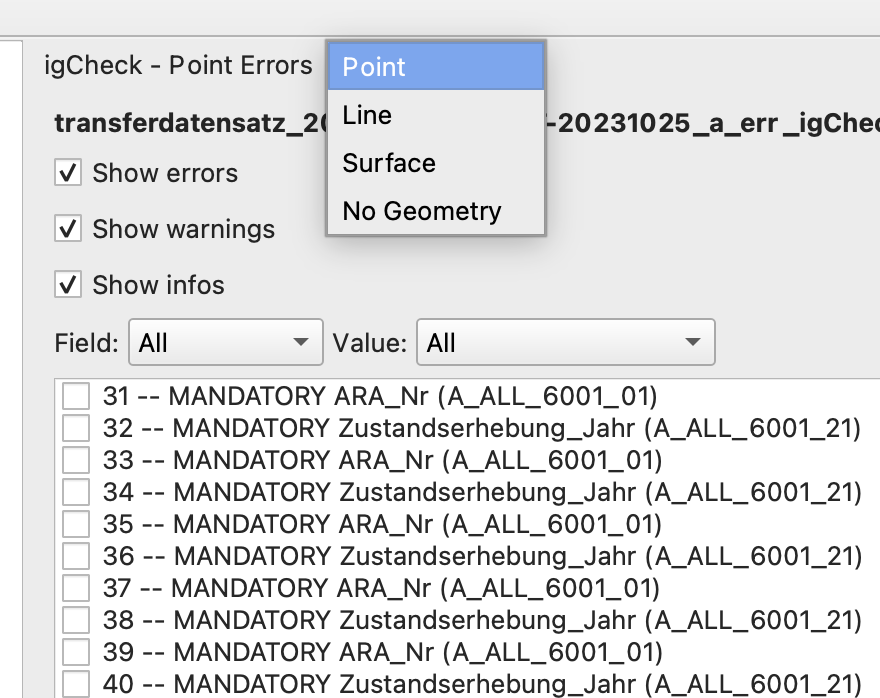
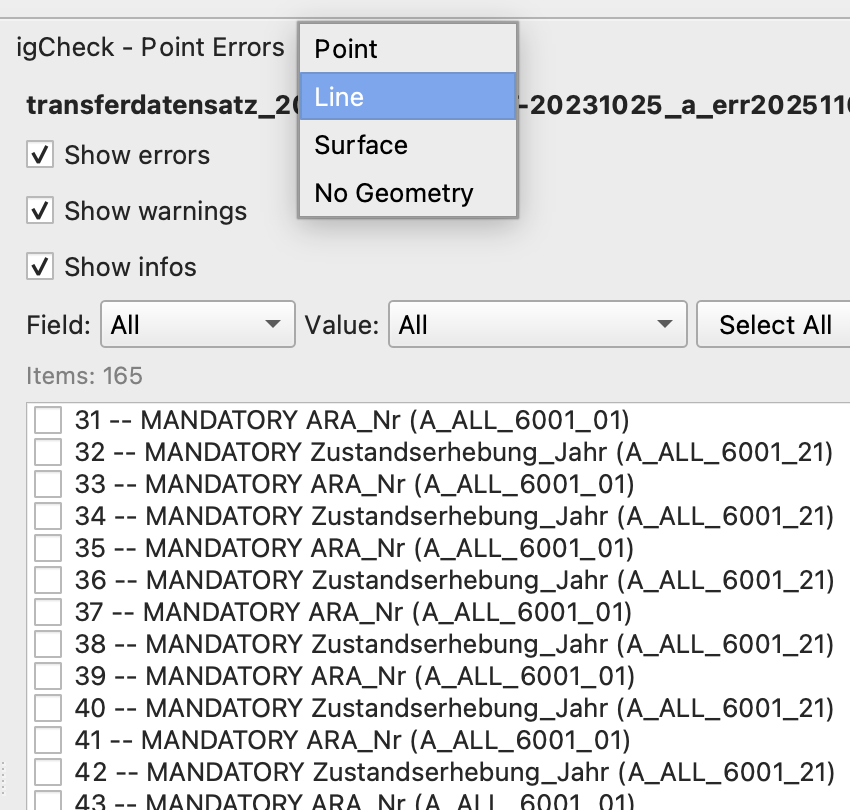
Update README and translations

diff --git a/xtflog_checker/i18n/XTFLog_Checker_fr.ts b/xtflog_checker/i18n/XTFLog_Checker_fr.ts
@@ -4,12 +4,12 @@
 <context>
     <name>generals</name>
     <message>
-        <location filename="../XTFLog_Checker_igcheck_dock_panel.py" line="97"/>
+        <location filename="../XTFLog_Checker_igcheck_dock_panel.py" line="121"/>
         <source>Show errors</source>
         <translation>Afficher erreures</translation>
     </message>
     <message>
-        <location filename="../XTFLog_Checker_igcheck_dock_panel.py" line="98"/>
+        <location filename="../XTFLog_Checker_igcheck_dock_panel.py" line="122"/>
         <source>Show warnings</source>
         <translation>Afficher avertissements</translation>
     </message>
@@ -59,7 +59,7 @@
         <translation>Aucun fichier XTF-Log valide au chemin d&apos;accès spécifié</translation>
     </message>
     <message>
-        <location filename="../XTFLog_Checker_dock_panel.py" line="42"/>
+        <location filename="../XTFLog_Checker_dock_panel.py" line="57"/>
         <source>Error log</source>
         <translation>XTFLog-Checker log des erreurs</translation>
     </message>
@@ -109,7 +109,7 @@
         <translation>Le fichier XTF sélectionné ne contient aucune erreur igCheck, veuillez en sélectionner un autre</translation>
     </message>
     <message>
-        <location filename="../XTFLog_Checker_igcheck_dock_panel.py" line="43"/>
+        <location filename="../XTFLog_Checker_igcheck_dock_panel.py" line="52"/>
         <source>Show infos</source>
         <translation>Afficher les infos</translation>
     </message>
@@ -159,14 +159,29 @@
         <translation>Aucune géométrie ou erreur valide</translation>
     </message>
     <message>
-        <location filename="../XTFLog_Checker_igcheck_dock_panel.py" line="61"/>
+        <location filename="../XTFLog_Checker_igcheck_dock_panel.py" line="76"/>
         <source>Field:</source>
         <translation>Champ :</translation>
     </message>
     <message>
-        <location filename="../XTFLog_Checker_igcheck_dock_panel.py" line="68"/>
+        <location filename="../XTFLog_Checker_igcheck_dock_panel.py" line="83"/>
         <source>Value:</source>
         <translation>Valeur :</translation>
+    </message>
+    <message>
+        <location filename="../XTFLog_Checker_igcheck_dock_panel.py" line="90"/>
+        <source>Select All</source>
+        <translation>Seleziona tutto</translation>
+    </message>
+    <message>
+        <location filename="../XTFLog_Checker_igcheck_dock_panel.py" line="91"/>
+        <source>Clear All</source>
+        <translation>Deseleziona tutto</translation>
+    </message>
+    <message>
+        <location filename="../XTFLog_Checker_igcheck_dock_panel.py" line="300"/>
+        <source>Items: {count}</source>
+        <translation>Elementi:{count}</translation>
     </message>
 </context>
 </TS>

diff --git a/xtflog_checker/i18n/XTFLog_Checker_de.ts b/xtflog_checker/i18n/XTFLog_Checker_de.ts
@@ -4,12 +4,12 @@
 <context>
     <name>generals</name>
     <message>
-        <location filename="../XTFLog_Checker_igcheck_dock_panel.py" line="97"/>
+        <location filename="../XTFLog_Checker_igcheck_dock_panel.py" line="121"/>
         <source>Show errors</source>
         <translation>Fehler anzeigen</translation>
     </message>
     <message>
-        <location filename="../XTFLog_Checker_igcheck_dock_panel.py" line="98"/>
+        <location filename="../XTFLog_Checker_igcheck_dock_panel.py" line="122"/>
         <source>Show warnings</source>
         <translation>Warnungen anzeigen</translation>
     </message>
@@ -59,7 +59,7 @@
         <translation>Keine gültige XTF-Log-Datei unter angegebenem Pfad</translation>
     </message>
     <message>
-        <location filename="../XTFLog_Checker_dock_panel.py" line="42"/>
+        <location filename="../XTFLog_Checker_dock_panel.py" line="57"/>
         <source>Error log</source>
         <translation>XTFLog-Checker Fehlerprotokoll</translation>
     </message>
@@ -109,7 +109,7 @@
         <translation>Die ausgewählte XTF-Datei enthält keine igCheck-Fehler. Bitte wählen Sie eine andere Datei aus</translation>
     </message>
     <message>
-        <location filename="../XTFLog_Checker_igcheck_dock_panel.py" line="43"/>
+        <location filename="../XTFLog_Checker_igcheck_dock_panel.py" line="52"/>
         <source>Show infos</source>
         <translation>Infos anzeigen</translation>
     </message>
@@ -159,14 +159,29 @@
         <translation>Keine gültige Geometrie oder Fehler</translation>
     </message>
     <message>
-        <location filename="../XTFLog_Checker_igcheck_dock_panel.py" line="61"/>
+        <location filename="../XTFLog_Checker_igcheck_dock_panel.py" line="76"/>
         <source>Field:</source>
         <translation>Feld:</translation>
     </message>
     <message>
-        <location filename="../XTFLog_Checker_igcheck_dock_panel.py" line="68"/>
+        <location filename="../XTFLog_Checker_igcheck_dock_panel.py" line="83"/>
         <source>Value:</source>
         <translation>Wert:</translation>
+    </message>
+    <message>
+        <location filename="../XTFLog_Checker_igcheck_dock_panel.py" line="90"/>
+        <source>Select All</source>
+        <translation>Alles auswählen</translation>
+    </message>
+    <message>
+        <location filename="../XTFLog_Checker_igcheck_dock_panel.py" line="91"/>
+        <source>Clear All</source>
+        <translation>Alles abwählen</translation>
+    </message>
+    <message>
+        <location filename="../XTFLog_Checker_igcheck_dock_panel.py" line="300"/>
+        <source>Items: {count}</source>
+        <translation>Einträge:{count}</translation>
     </message>
 </context>
 </TS>

diff --git a/xtflog_checker/i18n/XTFLog_Checker_it.ts b/xtflog_checker/i18n/XTFLog_Checker_it.ts
@@ -4,7 +4,7 @@
 <context>
     <name>generals</name>
     <message>
-        <location filename="../XTFLog_Checker_igcheck_dock_panel.py" line="97"/>
+        <location filename="../XTFLog_Checker_igcheck_dock_panel.py" line="121"/>
         <source>Show errors</source>
         <translation>Mostra errori</translation>
     </message>
@@ -54,7 +54,7 @@
         <translation>Nessun file XTF-Log valido nel percorso specificato</translation>
     </message>
     <message>
-        <location filename="../XTFLog_Checker_dock_panel.py" line="42"/>
+        <location filename="../XTFLog_Checker_dock_panel.py" line="57"/>
         <source>Error log</source>
         <translation>XTFLog-Checker registro errori</translation>
     </message>
@@ -104,12 +104,12 @@
         <translation>Il file XTF selezionato non contiene errori igCheck, seleziona un altro file</translation>
     </message>
     <message>
-        <location filename="../XTFLog_Checker_igcheck_dock_panel.py" line="98"/>
+        <location filename="../XTFLog_Checker_igcheck_dock_panel.py" line="122"/>
         <source>Show warnings</source>
         <translation>Mostra avvisi</translation>
     </message>
     <message>
-        <location filename="../XTFLog_Checker_igcheck_dock_panel.py" line="43"/>
+        <location filename="../XTFLog_Checker_igcheck_dock_panel.py" line="52"/>
         <source>Show infos</source>
         <translation>Mostra informazioni</translation>
     </message>
@@ -159,14 +159,29 @@
         <translation>Nessuna geometria o errore valido</translation>
     </message>
     <message>
-        <location filename="../XTFLog_Checker_igcheck_dock_panel.py" line="61"/>
+        <location filename="../XTFLog_Checker_igcheck_dock_panel.py" line="76"/>
         <source>Field:</source>
         <translation>Campo:</translation>
     </message>
     <message>
-        <location filename="../XTFLog_Checker_igcheck_dock_panel.py" line="68"/>
+        <location filename="../XTFLog_Checker_igcheck_dock_panel.py" line="83"/>
         <source>Value:</source>
         <translation>Valore:</translation>
+    </message>
+    <message>
+        <location filename="../XTFLog_Checker_igcheck_dock_panel.py" line="90"/>
+        <source>Select All</source>
+        <translation>Tout sélectionner</translation>
+    </message>
+    <message>
+        <location filename="../XTFLog_Checker_igcheck_dock_panel.py" line="91"/>
+        <source>Clear All</source>
+        <translation>Tout désélectionner</translation>
+    </message>
+    <message>
+        <location filename="../XTFLog_Checker_igcheck_dock_panel.py" line="300"/>
+        <source>Items: {count}</source>
+        <translation>Éléments :{count}</translation>
     </message>
 </context>
 </TS>

diff --git a/README.md b/README.md
@@ -21,17 +21,17 @@ Please report any problems you experience by submitting an issue.
 
 The following dialog will appear:
 
-![Dialog](xtflogchecker_dialog.png)
+<img src='xtflogchecker_dialog.png' alt="Icon" width="60%">
 
 2. A. Select the error log xtf file you want to be visualized.
 
-![Dialog - select file](xtflogchecker_dialog2.png)
+<img src='xtflogchecker_dialog2.png' alt="Icon" width="60%">
 
    B. You can also load an XTF URL by copying the address and pasting it into the input box.
-<img src='xtflogchecker_url_input_box.png' alt="Icon" width="64%">
+<img src='xtflogchecker_url_input_box.png' alt="Icon" width="60%">
 
 C. You can also load a URL from an online validation service, such as [ilicop.ch](https://ilicop.ch/).
-<img src='xtflogchecker_url_input_box2.png' alt="Icon" width="65%">
+<img src='xtflogchecker_url_input_box2.png' alt="Icon" width="60%">
 
 3. Click on 'Create Layer' - the error log will be analyzed and the results will be displayed.
 
@@ -39,14 +39,14 @@ C. You can also load a URL from an online validation service, such as [ilicop.ch
 
 ### Ilivalidator
 
-![Ilivalidator](xtflogchecker_ilivalidator_errors.png)
+<img src='xtflogchecker_ilivalidator_errors.png' alt="Icon" width="90%">
 
 All Errors are displayed on the same layer. The latest version also supports the display of Errors without an assigned geometry. 
 
 
 ### iG/Check
 
-![iG/Check](xtflogchecker_igcheck_errors.png)
+<img src='xtflogchecker_igcheck_errors.png' alt="Icon" width="90%">
 
 Since Release 1.1.0 also iG/Check Errors logs are supported. For each Geometry type an extra layer is created and connected with the respective errors. There are four possible layers:
 
@@ -59,39 +59,50 @@ The following INTERLIS Error log versions are supported:
 https://www.infogrips.ch/models/2.3/ErrorLog14.ili (since release 1.1.0)
 and https://www.infogrips.ch/models/2.4/ErrorLog24.ili (since release 1.2.0)
 
+
+
 ### Change layer
 
 Click on the XTFLog-Checker Icon ![Icon](xtflogchecker_icon.png) again
 
 In the following dialog choose the layer you want to be displayed:
 
-![Change layer](xtflogchecker_dialog_change_layer.png)
+<img src='xtflogchecker_dialog_change_layer.png' alt="Icon" width="60%">
 
 Or you can change the layer from the “Layer Switch” dropdown in the panel.
 
-<img src='xtflogchecker_dialog_change_layer2.png' alt="Icon" width="50%">
+<img src='xtflogchecker_dialog_change_layer2.png' alt="Icon" width="60%">
 
 ### Filter errors by category
 
 You can filter the errors by their categories: [errors, warnings, info]:
 
-![Filter](xtflogchecker_filter_error_warning.png)
+<img src='xtflogchecker_filter_error_warning.png' alt="Icon" width="90%">
 
-![Filter Info](xtflogchecker_filter_info.png)
+<img src='xtflogchecker_filter_info.png' alt="Icon" width="90%">
 
+### Advanced selection
 You can also use the advanced selection, to choose Class,Tid,Topic,ErrorId,Description,After selecting, the first item will be automatically highlighted and zoomed in.
 
-<img src='Advanced_Selection.png' alt="Icon" width="50%">
+<img src='xtflogchecker_advanced_selection.png' alt="Icon" width="60%">
+
+### Select All and Clear All buttons
+
+You can use the 'Select All' button to select all items in the current list.
+<img src='xtflogchecker_select_all.png' alt="Icon" width="90%">
+
+'Clear All' will deselect all items.
+<img src='xtflogchecker_clear_all.png' alt="Icon" width="90%">
 
 ### Tooltip with additional information
 
-You can get additional information about the error with the tooltip:
+When hovering over an entry, a floating box appears displaying the corresponding TID, Module, Error_ID, Model, Description, Topic, Class, Tid, Name, and Value information. 
 
-![Tooltip - additional information](xtflogchecker_igcheck_no_geometry_errors.png)
+<img src='xtflogchecker_tooltip.png' alt="Icon" width="60%">
+
 
 Further details you get by opening the attribute table of the respective layer
-
-![Attribute table](xtflogchecker_attribute_table.png)
+<img src='xtflogchecker_attribute_table.png' alt="Icon" width="90%">
 
 
 ## License
